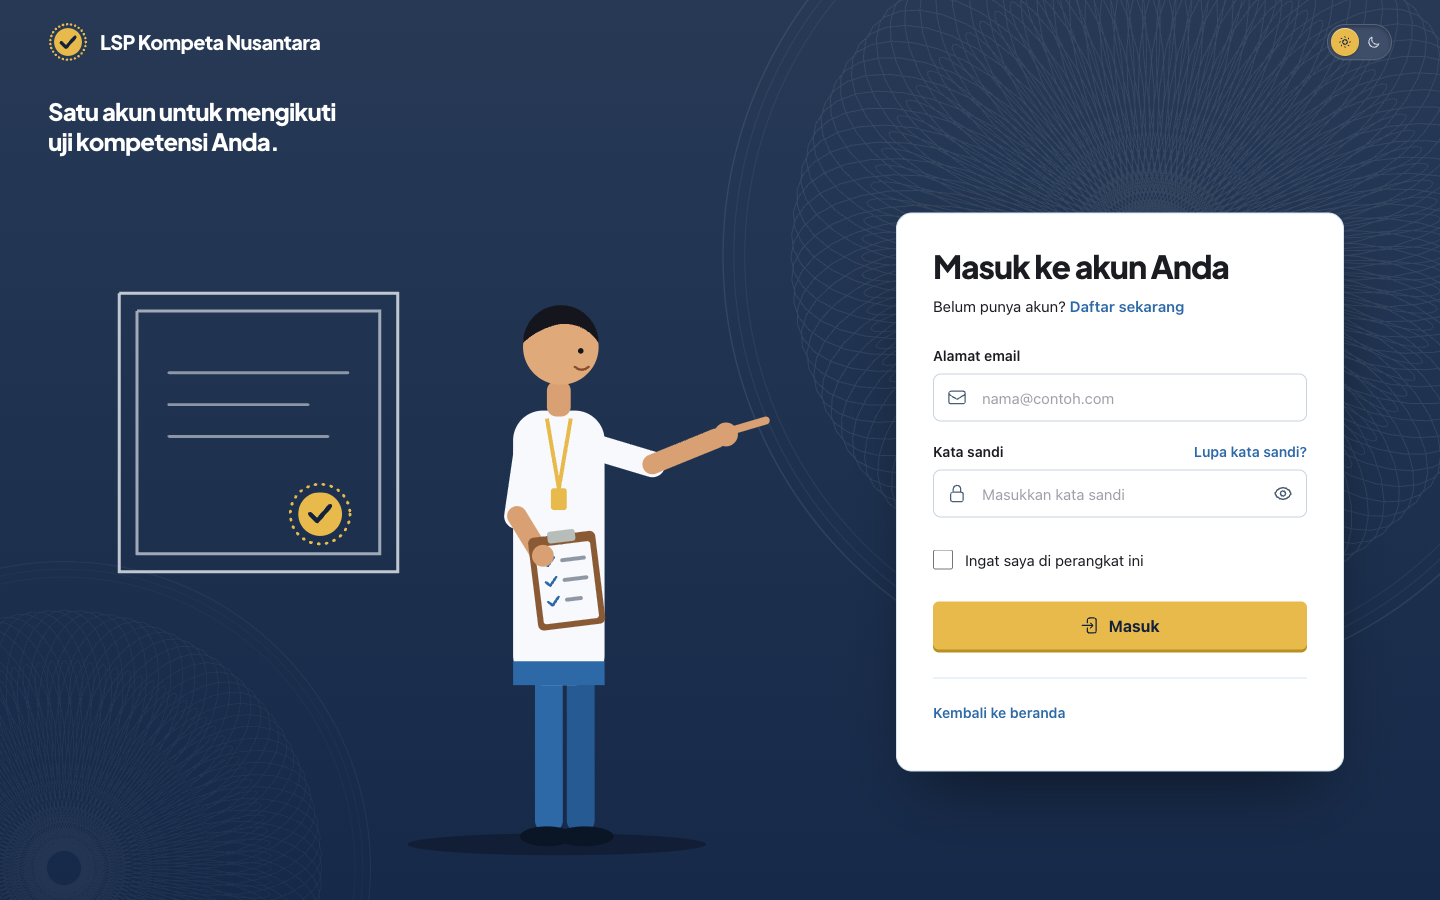
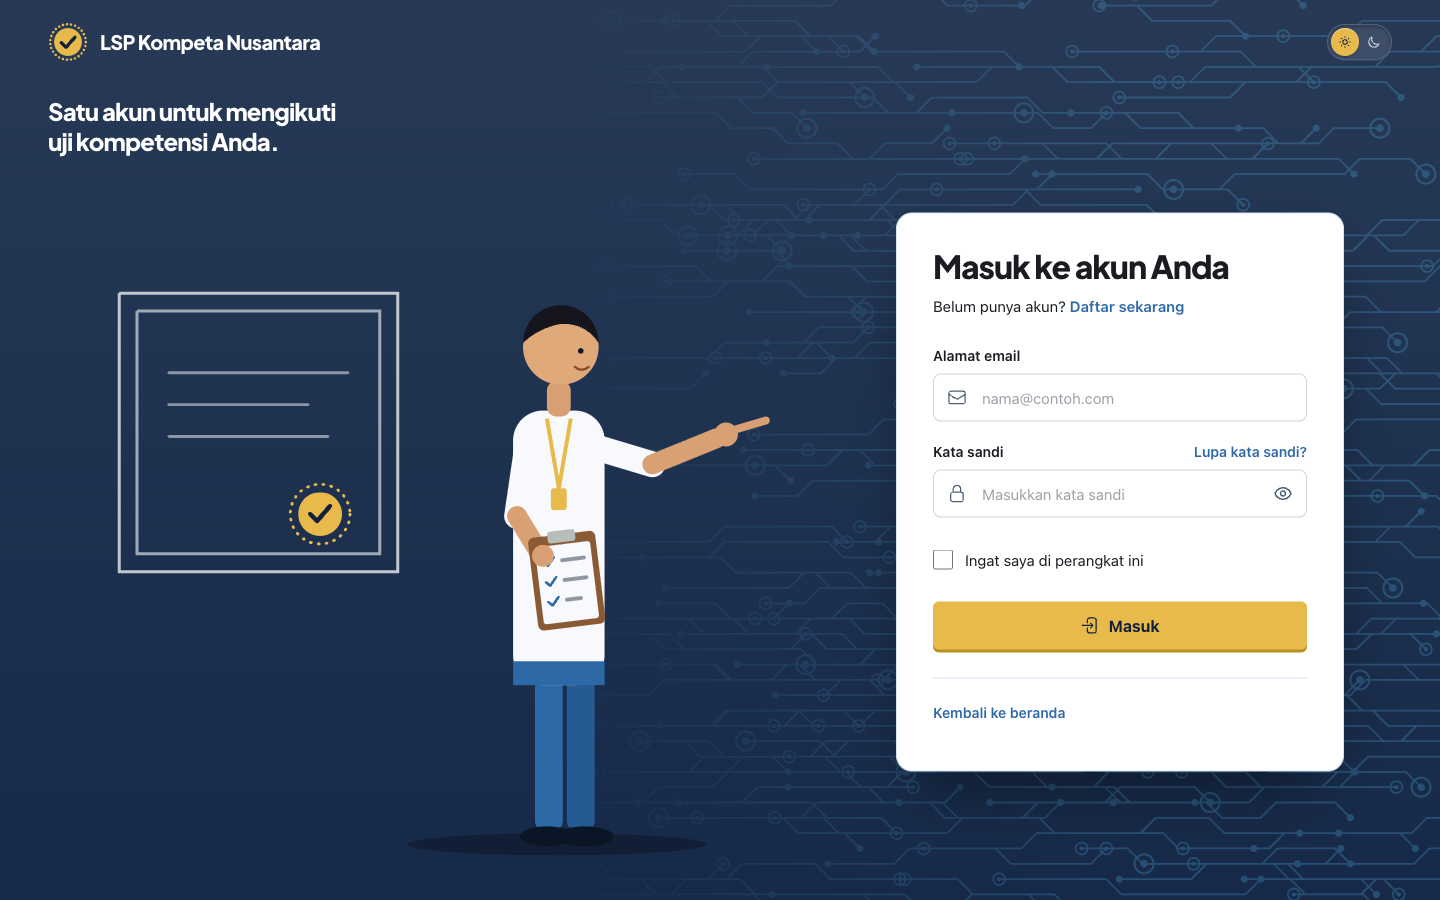
docs: release 3.3.0 notes and retake the screenshots

diff --git a/README.md b/README.md
@@ -1,6 +1,6 @@
 # Laravel Livewire CMS Platform
 
-> **v3** — Laravel + Livewire CMS with role-based access control and a public portal for a professional certification body (LSP): scheme list, certification flow, exam schedule, news and FAQ, plus redesigned sign-in screens. The look is built from the LSP logo colours (brand blue, sky blue and one gold accent on a deep navy ground). Content is backed by a reproducible, clearly labelled sample-data seeder.
+> **v3.3.0** — Laravel + Livewire CMS with role-based access control and a public portal for a professional certification body (LSP): scheme and schedule pages, certification flow, news and FAQ, plus redesigned sign-in screens. The admin panel includes user import from Excel/CSV and dashboard charts. The look is built from the LSP logo colours (brand blue, sky blue and one gold accent on a deep navy ground). Content is backed by a reproducible, clearly labelled sample-data seeder.
 
 ## 📸 Screenshots
 
@@ -12,7 +12,7 @@ All images are 1440 × 900 (the phone view is 390 × 844) and use the sample dat
 |---|
 | ![Public website home page](docs/screenshots/website-home.png) |
 
-| Schemes, light theme | Schemes, dark theme |
+| Schemes page, light theme | Schemes page, dark theme |
 |---|---|
 | ![Public website scheme list in light theme](docs/screenshots/website-skema.png) | ![Public website scheme list in dark theme](docs/screenshots/website-dark.png) |
 
@@ -55,7 +55,10 @@ All images are 1440 × 900 (the phone view is 390 × 844) and use the sample dat
 ### 🔐 Authentication & Security
 
 - Full auth flow: Login, Register, Forgot Password, Reset Password, Email Verification
-- **Form card over a full navy background** — the form sits in a card on the right; on the left is an original illustration (an assessor beside a framed certificate, drawn for this project, not stock art). The same screen is used for every auth page
+- **Form card over a full navy background** — the form sits in a card on the right, over a faint static circuit motif; on the left is an original illustration (an assessor beside a framed certificate, drawn for this project, not stock art). The same screen is used for every auth page
+- **Email verification links** are signed and expire after 3 days (`AUTH_VERIFICATION_EXPIRE`, in minutes); a hand-built or expired link verifies nothing
+- **Temporary passwords** — accounts created by an administrator get an 8-character password (upper case, lower case and digits, no look-alikes) in the verification email. The verification page and every admin page remind the user to change it until they do. Resending the verification issues a new one
+- **Mail retries** — verification and password reset emails are retried 3 times, after 10, 30 and 60 seconds
 - **Theme switch** — one button with a sun and a moon icon; the gold knob slides to the active theme
 - Queued email notifications (Mailtrap-ready)
 - Standardized password validation (NIST/OWASP) with real-time strength indicator
@@ -66,13 +69,15 @@ All images are 1440 × 900 (the phone view is 390 × 844) and use the sample dat
 
 A public portal themed for a professional certification body (LSP), with its own design system (`website.css` / `website.js`), entirely separate from the admin panel. Anything that looks like data (schemes, schedule, FAQ, sample articles) is clearly labelled as a sample, and no statistics, testimonials, partner logos or compliance claims are shown.
 
-- **Home** — hero (headline, a search box and field tags that open `/skema`, a brown sample certificate, three quick-link tiles) → a summary of six schemes with a "see all" button → certification flow (five numbered steps, then the Competent / Not Yet Competent decision) → the next five exam dates with a "see all" button → highlights (CMS carousel) → latest news → profile → FAQ → closing call to action
+- **Home** — hero (headline, a search box and field tags that open `/skema`, a brown sample certificate, three quick-link tiles) → a summary of six schemes with a "see all" button → certification flow (five numbered steps, then the Competent / Not Yet Competent decision) → the next five exam dates with a "see all" button → highlights (CMS carousel) → latest news → FAQ (one card per question) → closing call to action
+- **Technology motifs** — circuit traces behind the inner page headers, a triangular lattice behind the schedule, FAQ and closing sections; single colour and faint so text stays readable
+- **Signed-in visitors** see "Dashboard" instead of "Masuk" in the navigation and footer
 - **Schemes page (`/skema`)** — the full list: search, field filter with counts, two compact columns and a "show more" step, so it stays short with 20+ schemes. Reads `?q=` and `?bidang=` from the hero
 - **Schedule page (`/jadwal`)** — the full exam schedule with search, a registration filter and pagination
 - **First screen fits the viewport** — on large screens the hero is as tall as the window minus the header, with the quick links resting on the bottom edge; on short windows the field tags are hidden and spacing tightens, so nothing is cut off on first load
 - **Certificate illustration** — the three unit ticks draw in one after another and the KOMPETEN seal lands, on a looping 7 s cycle. The certificate itself stays still, and motion stops under `prefers-reduced-motion`
 - **Dark navigation bar** — a key-shaped marker slides to the item you point at: raised while it moves, pressed in with a gold underline on the current page. One theme-switch button; the mobile menu opens as a full-width panel
-- **News** — list (lead story plus cards), categories sidebar, article page with related news, and a dedicated pagination view (`views/vendor/pagination/website.blade.php`)
+- **News** — list (lead story plus cards with a category icon), categories sidebar with icons, article page with related news, and a dedicated pagination view (`views/vendor/pagination/website.blade.php`)
 - **About Page** — company description, official channels, Google Maps embed
 - **Dark/Light Mode** — persisted to localStorage, with no white flash on navigation
 - **SEO** — meta tags, Open Graph, Twitter Cards
@@ -103,23 +108,25 @@ Gold is never used as text on a light surface (contrast too low); `brand` is use
 - **System Settings** — Favicon, SEO metadata, Google Analytics
 - **Log Viewer** — View/filter/search Laravel logs (super-admin only, Opcodes Log Viewer)
 - **Job Monitor** — View queued jobs
+- **Menu icons** — pick a menu's icon from a pop-up Heroicons catalog
 
 ### 👥 Master Data
 
-- **User Management** — CRUD, auto-generated passwords, avatar, role assignment
+- **User Management** — CRUD, auto-generated passwords, avatar, role assignment, filters
+- **User Import** — download an Excel template (with example rows and notes), upload `.xlsx` or `.csv`, check a per-row preview, then import only the valid rows (up to 200). Only the `nama`, `email` and `role` columns are read. Imported accounts are active and receive a verification email with a temporary password
 - **Role Management** — Create roles, assign menu access per role
 - **Menu Management** — Dynamic menu builder, drag-and-drop ordering, Heroicon support
 
 ### 📊 Dashboard
 
-- Interactive Highcharts donut/bar chart (user distribution)
+- Donut chart of account status and bar chart of users per role, side by side
 - Key metrics cards
-- Re-initializes after Livewire SPA navigation
+- Charts are reusable components (`<x-ui.pie-chart>`, `<x-ui.bar-chart>`) with a screen reader table, redrawn when the theme changes
 
 ### 🎨 Admin UI/UX
 
-- **Top navigation** instead of a sidebar: a blue header (logo, menu search with Ctrl/Cmd+K, date, notifications, profile) above a menu bar built from the Menu master — role-aware, with icons from the master, dropdown groups and a "More" overflow for items that do not fit. On small screens a hamburger opens a vertical drawer
-- Depth: the header is a gradient of the logo blue with a lit top edge; the active menu item is a recessed tab with a short underline
+- **Top navigation** instead of a sidebar: a navy header (logo, menu search with Ctrl/Cmd+K, date, notifications, profile) above a menu bar built from the Menu master — role-aware, with icons from the master, dropdown groups and a "More" overflow for items that do not fit. On small screens a hamburger opens a vertical drawer
+- Depth: the header uses the same navy gradient as the public navigation bar, with a lit top edge; the active menu item is a recessed tab with a short underline
 - Dark mode throughout admin panel
 - Toast notifications (success, danger, warning, info)
 - Reusable components: modals, tables, cards, badges, pagination, empty states, **autocomplete select** (`<x-ui.select>` — single/multiple + searchable)
@@ -159,7 +166,8 @@ touch database/database.sqlite
 php artisan storage:link
 
 # 3. Configure .env
-APP_URL=http://localhost:8000
+APP_URL=http://127.0.0.1:8000   # must match the address you open: email links are built from it
+AUTH_VERIFICATION_EXPIRE=4320   # optional, minutes (default 3 days)
 DB_CONNECTION=sqlite
 MAIL_MAILER=smtp
 MAIL_HOST=your-smtp-host
@@ -176,6 +184,17 @@ npm run build      # production
 # OR
 npm run dev        # development (HMR)
 ```
+
+Upgrading an existing installation from 3.2.x:
+
+```bash
+composer install && npm install
+php artisan migrate          # adds users.must_change_password
+npm run build
+php artisan queue:restart    # workers must reload the new code, then start them again
+```
+
+Verification links sent before 3.3.0 no longer work; resend them from the user list.
 
 ### Default Credentials
 
@@ -196,6 +215,17 @@ php artisan queue:listen   # Terminal 3
 php artisan pail           # Terminal 4 (logs)
 ```
 
+Emails are queued, so nothing is sent without a queue worker. Notes for local development:
+
+- On macOS, port 5000 is used by AirPlay Receiver and `localhost:5000` reaches it instead of the app. Use `127.0.0.1`, or another port.
+- The Mailtrap sandbox rejects emails sent in quick succession. Retries cover small batches; a large import may still leave failed jobs.
+
+### Tests
+
+```bash
+php artisan test
+```
+
 ---
 
 ## 📁 Project Structure
@@ -214,7 +244,8 @@ app/
 │   └── [Feature]/         # Feature-specific CRUD components
 ├── Models/                # 10 Eloquent models (all with UUID + soft deletes)
 ├── Repositories/          # Repository pattern (Interface → Implementation)
-└── Services/MenuService.php
+├── Services/              # MenuService, UserImportService
+└── Support/               # SampleContent (sample schemes and schedule), HeroiconCatalog
 
 public/images/
 └── guilloche.svg          # Security-print rosette, used only as a CSS mask
@@ -289,6 +320,16 @@ Website partials live in `resources/views/website/partials/`. The reusable ones:
 
 Schemes and schedule are sample content with a visible "Contoh" label, read from one place (`App\Support\SampleContent` and `config/sample-schemes.php`) until real models exist. The home page shows a summary; the full lists live on `/skema` and `/jadwal`.
 
+### Admin UI components
+
+```blade
+<x-ui.bar-chart title="Users per role" :items="$rows" unit="users" label-heading="Role" />
+<x-ui.pie-chart title="Account status" :items="$rows" unit="users" label-heading="Status" />
+<x-ui.button.import wire:click="$dispatch('open-user-import')" />
+```
+
+`items` is a list of `['label' => string, 'value' => int]`; the donut also accepts a `color` per item. Row action buttons live in `components/ui/button/` and share one anatomy (`flux:tooltip` plus a `mini` icon).
+
 Home-page sections: `hero`, `skema` (summary), `alur`, `jadwal` (summary), `sorotan` (carousel), `faq`, `cta`. The full lists are `skema-list` (`/skema`) and `jadwal-list` (`/jadwal`). `alur` and `faq` hold static sample content in the view; `sorotan` and the news and profile blocks come from the CMS.
 
 ---
@@ -298,13 +339,27 @@ Home-page sections: `hero`, `skema` (summary), `alur`, `jadwal` (summary), `soro
 ```bash
 php artisan optimize:clear     # Clear all caches
 php artisan queue:work         # Run queue worker
-php artisan queue:retry all    # Retry failed jobs
+php artisan queue:retry all    # Retry failed jobs (not verification mails that were resent since)
+php artisan queue:flush        # Delete failed jobs
 php artisan migrate:fresh --seed  # Reset database
 ```
 
 ---
 
 ## 📋 Changelog
+
+### v3.3.0
+- **Schemes and schedule pages**: `/skema` and `/jadwal` hold the full lists with search and filters; the home page shows a summary.
+- **Public site visuals**: brown certificate illustration, circuit motif behind page headers, lattice behind home sections, FAQ as cards, category icons on news, and "Dashboard" instead of "Masuk" for signed-in visitors.
+- **User import** from Excel/CSV with a template, a per-row preview and a verification email per account.
+- **Temporary passwords** (8 characters) with a reminder to change them after verification and sign-in; resending includes a new one.
+- **Security fix**: verification links are now actually checked. Before this, any account could be verified by building the URL by hand, and links never expired. They now expire after 3 days.
+- **Mail**: 3 retries with growing pauses; the verification email no longer shows IP address or location.
+- **Admin**: navy header matching the public site, users-per-role chart, reusable chart components, orange filter button, menu icon picker.
+- **Fixes**: invisible link on the register page on hover, chart labels unreadable after switching to dark mode, footer overlapping the news list.
+
+### v3.2.1
+- **Fix**: the public header fits on phones, with a single theme switch. README and screenshots refreshed.
 
 ### v3.2.0
 - **Colours from the LSP logo**: the public site, sign-in screens and admin header now share one palette sampled from the logo (brand blue `#2D68A7`, sky blue `#4BA5DA`, gold `#E7BA4B`, navy ground). Tokens were renamed (`rimba` → `navy`, `cap` → `gold`).

diff --git a/claude.md b/claude.md
@@ -2,14 +2,14 @@
 
 > File ini adalah sumber utama konteks bagi AI assistant (Claude, Gemini, dll.) ketika bekerja dengan codebase ini.
 > Ditulis dari perspektif **Senior Fullstack Engineer** yang memahami setiap lapisan arsitektur.
-> **Versi dokumen**: v3.0.0
+> **Versi dokumen**: v3.3.0
 
 ---
 
 ## 🏗 Project Overview
 
 **Nama**: Laravel Livewire CMS Platform
-**Versi**: 3.0.0
+**Versi**: 3.3.0
 **Stack**: Laravel 13 + Livewire 4 + Filament Forms 5 + Tailwind CSS 4 + Vite 8 + Alpine.js 3
 **Database**: SQLite (development), bisa di-swap ke MySQL/PostgreSQL
 **PHP**: >= 8.2
@@ -187,11 +187,13 @@ Menu → has parent/children (self-referencing, nested tree)
 3. **Route yang TIDAK ada di tabel menus**: Accessible oleh semua authenticated user
 4. **Switch Role**: Cache menu di-clear saat switch
 
+**Kata sandi sementara** (8 karakter huruf besar, kecil, dan angka tanpa karakter mirip; `UserRepository::temporaryPassword`): akun yang dibuatkan (impor atau tombol Tambah) punya `users.must_change_password = true`. Selama itu, halaman verifikasi email dan semua halaman admin (`partials/temporary-password-banner`) mengingatkan untuk mengganti; flag mati lewat `UserRepository::updatePassword` (Ganti kata sandi) atau reset kata sandi. Tautan verifikasi ditandatangani (relatif, tanpa host), dicek di `VerifyEmail::mount`, berlaku 3 hari (`auth.verification.expire` / `AUTH_VERIFICATION_EXPIRE`). `VerifyEmailNotification` dan `ResetPasswordQueued` dicoba ulang 3x dengan jeda 10, 30, 60 detik. Kirim ulang verifikasi WAJIB lewat `UserRepository::resendVerification` (bukan `$user->sendEmailVerificationNotification()`): akun berflag mendapat kata sandi sementara baru di email.
+
 `MenuService` meng-cache menu tree per role (`menu_tree_role_{id}`) selama 1 jam.
 
 ---
 
-## 🌐 Public Website (v3.0.0)
+## 🌐 Public Website (v3.3.0)
 
 Detail warna, huruf, dan komponen lengkap ada di **`design.md`** (sumber kebenaran desain). Ringkasannya di sini.
 
@@ -288,7 +290,7 @@ Layout admin (`components/layouts/app.blade.php`) **tidak lagi memakai sidebar**
 - **Navigasi**: tautan di Alpine memakai `Livewire.navigate(url)` (menghormati Ctrl/Cmd/Shift-klik).
 - **Mobile**: hamburger membuka drawer vertikal (Blade loop biasa dengan `wire:navigate`).
 - **Dialog logout**: dialog ringkas khusus di `app.blade.php` (event `open-modal` dengan `name: 'logout-modal'`). Sengaja TIDAK tertutup oleh klik di luar atau Esc; hanya lewat tombol X, Batal, atau Ya, Logout.
-- **Footer** menampilkan versi `v3.0.0` (hardcode di `app.blade.php`).
+- **Footer** menampilkan versi `v3.3.0` (hardcode di `app.blade.php`).
 - Warna dan bayangan: lihat `design.md`.
 
 ### Halaman Auth (`components/layouts/auth.blade.php`)
@@ -325,7 +327,11 @@ plugins: [
 
 ### Custom UI Components (`views/components/ui/`)
 
-`modal`, `table/` (+ `table/header` dengan slot `searchAction` & `extraActions`), `card`, `badge`, `pagination`, `delete-confirm-modal`, `empty-state`, `avatar`, `button/`, `password-strength`, `select`, `chart-card`, `bar-chart`, `pie-chart`
+`modal`, `table/` (+ `table/header` dengan slot `searchAction` & `extraActions`), `card`, `button/*` (aksi: `flux:tooltip` + `flux:icon` variant `mini` `w-4 h-4`; ikuti pola ini untuk aksi baru), `badge`, `pagination`, `delete-confirm-modal`, `empty-state`, `avatar`, `button/`, `password-strength`, `select`, `chart-card`, `bar-chart`, `pie-chart`
+
+#### Impor pengguna (`App\Livewire\Users\UserImport`)
+
+Tombol Impor di halaman Pengguna membuka modal: unduh template, unggah `.xlsx`/`.csv`, **pratinjau** dengan alasan per baris, baru impor baris yang valid (maksimal 200). Baca dan validasi file ada di `App\Services\UserImportService`; pembuatan akun lewat `UserRepository::createInvited` (tanpa kolom status: akun langsung aktif, email verifikasi berisi kata sandi sementara dikirim ke semua, login terbuka setelah verifikasi). Template berisi dua baris contoh (`UserImportService::EXAMPLES`, tidak pernah diimpor bila tidak diubah) dan kolom `keterangan` (tidak dibaca) serta lembar Petunjuk. Importer hanya membaca kolom `nama`, `email`, `role`; kolom lain diabaikan. Hasil pratinjau disimpan di properti `#[Locked]` dan divalidasi ulang saat impor.
 
 #### `<x-ui.bar-chart>` dan `<x-ui.pie-chart>` — grafik reusable
 
@@ -448,7 +454,7 @@ $this->attempt(
 ### Email Templates (`views/emails/` + `components/emails/layout`)
 
 - Layout email pakai brand biru `#3a6cf4` → `#2451d6` (selaras website). Bukan hijau lagi.
-- **IP & Lokasi**: `VerifyEmailNotification` & `ResetPasswordQueued` menampilkan Alamat IP + Lokasi.
+- **IP & Lokasi**: hanya `ResetPasswordQueued` yang menampilkan Alamat IP + Lokasi. Email verifikasi sengaja tidak memuatnya.
   - IP **HARUS** di-capture di `__construct()` via `request()->ip()` — karena notification di-queue, request context hilang saat job dieksekusi worker.
   - `resolveLocation()` dipanggil di `toMail()` (saat job jalan, boleh hit API eksternal `ip-api.com`, timeout 5s, silent fail). IP lokal/private → "Lokal / Development".
 - **Logo email**: gunakan `url(\Illuminate\Support\Facades\Storage::url($logo))` — BUKAN `url('storage/' . $logo)`. Pastikan `APP_URL` benar agar logo bisa di-load email client.
@@ -530,7 +536,7 @@ Keduanya tidak boleh dicampur.
 Alpine TIDAK mendukung nested `<template x-if>`. Pecah jadi kondisi gabungan: `x-if="multiple && val.length > 0"`, `x-if="multiple && val.length === 0"`, dst. (lihat `components/ui/select.blade.php`). Untuk `x-show` di dropdown gunakan `style="display:none"` (bukan hanya `x-cloak`) agar tidak flash sebelum Alpine siap.
 
 ### 14. Capture IP Sebelum Queue
-Notification/job yang butuh data request (IP, user-agent) **HARUS** menangkapnya di `__construct()` saat masih dalam HTTP context. Saat job dieksekusi queue worker, `request()` sudah kosong. Lihat `ResetPasswordQueued` & `VerifyEmailNotification`.
+Notification/job yang butuh data request (IP, user-agent) **HARUS** menangkapnya di `__construct()` saat masih dalam HTTP context. Saat job dieksekusi queue worker, `request()` sudah kosong. Lihat `ResetPasswordQueued`.
 
 ### 15. Filter Pattern di Index Component
 Filter list (status, role, dll.) pakai pola: properti `filterX` (`#[Url]`, persist ke URL) + `pendingX` (state sementara di modal). `openFilterModal()` copy `filterX→pendingX`, `applyFilters()` copy balik `pendingX→filterX` lalu `resetPage()`. Repository sediakan method `searchWithFilters(...)`. Lihat `UserIndex`.
